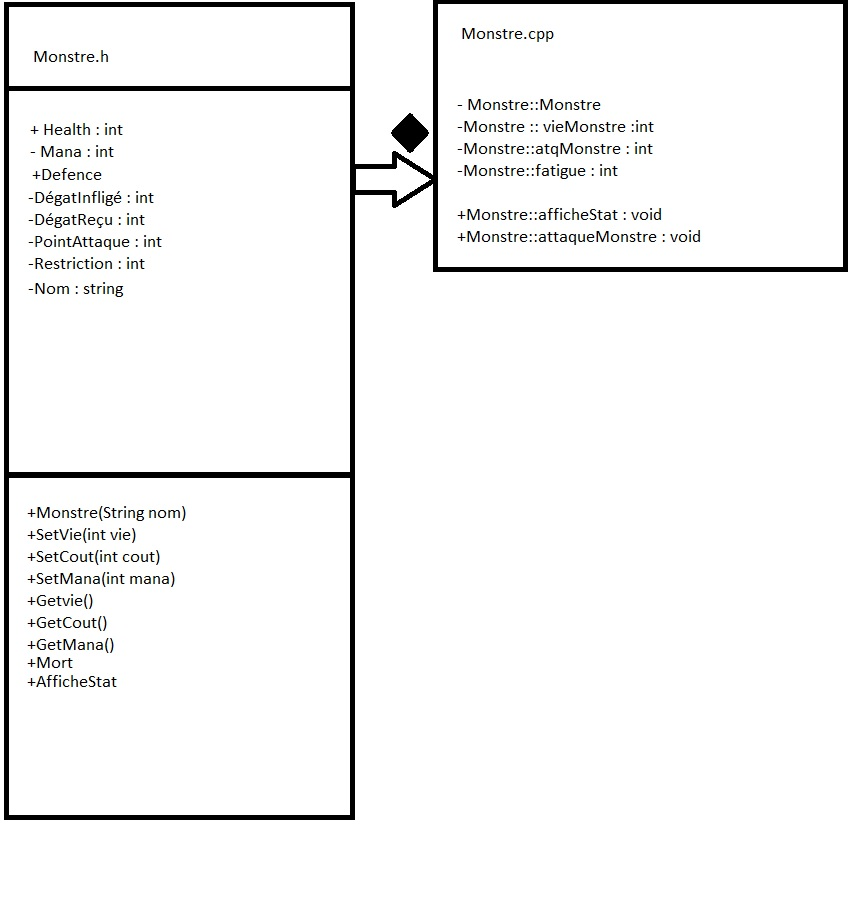
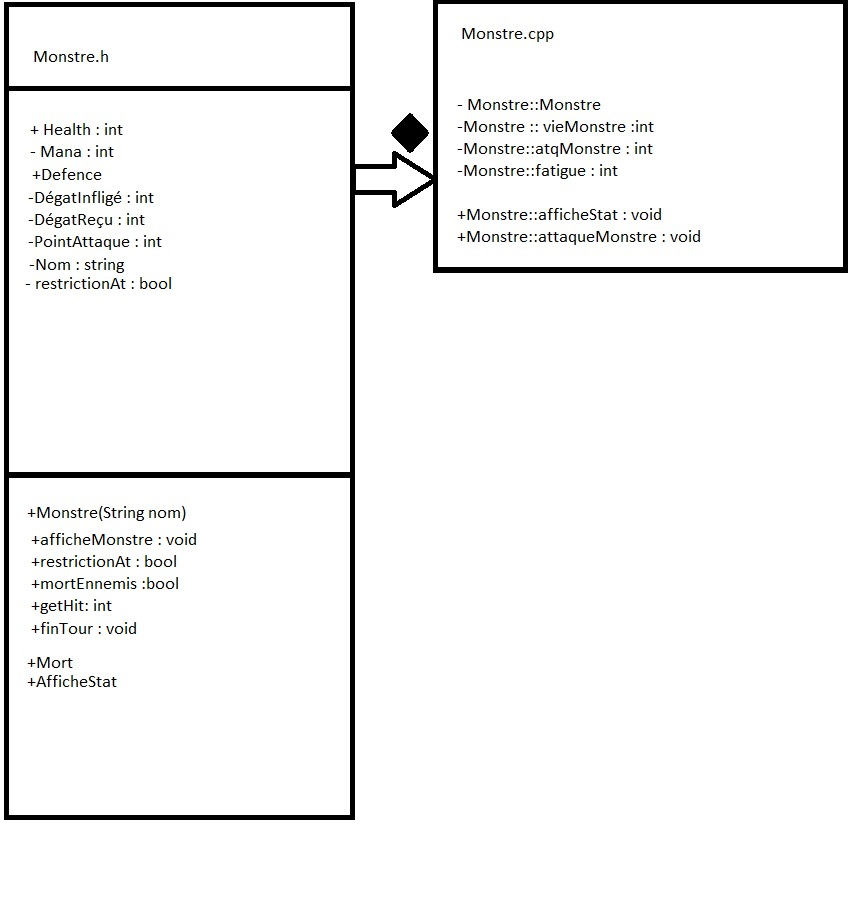
1... 2... 3.. nous irons aux bois

Changed region(s): [[0.0302, 0.5764, 0.2419, 0.7281], [0.0302, 0.273, 0.2116, 0.3337]]

diff --git a/monstre.h b/monstre.h
@@ -9,17 +9,20 @@ class Monstre{
 
 
     private:
-        int health = 10;
-        int coutMana = 3;
-        int def = 4;
-        int attaque = 5;
-        string name ('Goblin');
-        int restrictionAt = 1 ;
+        int _health = 10;
+        int _coutMana = 3;
+        int _def = 4;
+        int _attaque = 5;
+        std::string _nom = "Goblin";
+        bool restrictionAt = false;
 
     public:
         Monstre();
         void afficheStat();
-        int getHit (int Attaque);
+        bool restrinctionAt();
+        void afficheMonstre();
+        int getHit (int attaqueEnnemis);
+        bool mortEnnemis();
         void Mort();
 
         void finTour ();

diff --git a/main.cpp b/main.cpp
@@ -1,17 +1,11 @@
 #include "monstre.cpp"
+#include "monstre.h"
 #include <iostream>
 #include <string>
 
 
 int main(){
 
-    
-    Tictactoe jeu = Tictactoe();
-    int numeroCase;
-
-    Grille maGrilleDeTest = Grille(7,6);
-    maGrilleDeTest.affiche();
-    
-    
-    return 0;
+    Monstre::afficheMonstre();
+    return;
 }

diff --git a/monstre.cpp b/monstre.cpp
@@ -2,10 +2,11 @@
 #define MONSTRE_CPP
 
 
-#include <monstre.h>
-using namespace std;
+#include "monstre.h"
 #include <iostream>
 #include <string>
+
+using namespace std;
 
 
     Monstre::Monstre(){}
@@ -37,5 +38,6 @@ using namespace std;
         _health = _health - attaqueEnnemis;
         return _health;
     }
+
 #endif
 
